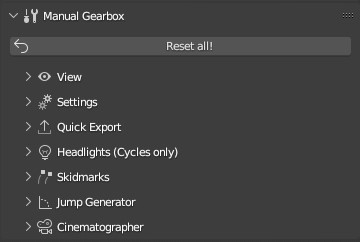
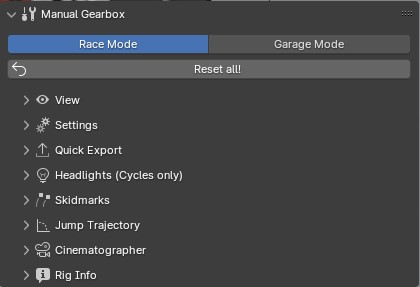
Added 1.5.7 features

Changed region(s): [[0.0, 0.0, 1.0, 1.0], [0.0611, 0.5785, 0.5194, 0.9835], [0.0611, 0.4917, 0.3361, 0.5496]]

diff --git a/docs/source/manual-gearbox.rst b/docs/source/manual-gearbox.rst
@@ -11,6 +11,28 @@ Inside the Manual Gearbox you have a wide range of customization options to make
     
     *The Manual Gearbox in the N-Panel* 
 
+
+.. _rig-setup-mode:
+Garage Mode
+-----
+
+.. image:: gif/DOC_GARAGE_MODE.gif
+    :alt: Garage Mode Gif
+    :class: with-shadow
+    :width: 600px
+    :align: center
+|
+
+Changing the mode to Garage Mode will get your vehicle ready for new tires, change track width or other model changes.
+In the "Garage" all animations will be disabled temporarily and the vehicle is moved to the center of the scene. Blender also enters "Local View", so all other objects will be temporarily hidden until you go to "Race Mode" again.
+
+Body, Wheel, Brake, Headlight and Steering Wheel attachment bones and setup controls for wheel-base length, track-width length, wheel radii, and roll center can be found in this mode. Enter "Pose Mode" and select and move the handles to start adjusting.
+You can manually parent meshes, nulls and armatures to the body or wheels. 
+
+.. note::
+    The vehicle will temporarily be put into the center of the scene and all animations disabled. All animations will be restored when "Race Mode" is entered again.  
+
+|
 *Reset all!*
 Will reset all LC properties for the active vehicle to their default value.
 
@@ -117,27 +139,6 @@ The Settings Panel controls how the :ref:`ground-detection`, :ref:`animation-han
     :align: center
     
     *Settings Panel in the Manual Gearbox UI* 
-
-|
-.. _rig-setup-mode:
-Rig Setup Mode
-^^^^^^^^
-Enter a Setup Mode for the Active Vehicle where the sizes of the rig can be adjusted, new body parts added and the Roll Center adjusted.
-
-..  figure:: img/IMG_RigSetupMode.jpg
-    :alt: Rig Setup Mode
-    :class: with-shadow
-    :width: 350px
-    :align: center
-    
-    *Rig Setup Mode controls in the 3D View* 
-
-Body, Wheel, Brake, Headlight and Steering Wheel attachment bones and setup controls for wheel-base length, track-width length, wheel radii, and roll center can be found in this mode. Enter "Pose Mode" and select and move the handles to start adjusting.
-You can manually parent meshes, nulls and armatures to the body or wheels. 
-
-.. note::
-    The vehicle will temporarily be put into the center of the scene and all animations disabled. All animations will be restored when "rig setup mode" is turned back off.
-
 
 |
 Update Driving Path
@@ -410,3 +411,5 @@ In the process, LC will store the animtion data, driving path, ground detection,
 Depending on the versions some data might not be possible to apply, so expect loss of data if you are updating an old file.
 
 If you have a file with a "Legacy Rig" (Rigged in LC 1.0-1.3), you can try to "Update Vehicle Rig" too, but the successrate will be lower.
+
+If a new version of the Launch Control Add-on is available, a box will pop up here notifying you about this. You can either pick to "Ignore" and not get this notification anymore, or head "To Download Page" to update your version of the add-on. Make sure you are logged into the selected download page and that you picked the right page inside the Add-on Preferences for Launch Control.

diff --git a/docs/source/user-preferences.rst b/docs/source/user-preferences.rst
@@ -59,3 +59,24 @@ Multi-Rigging (Experimental)
 
 .. note::
     Remember to "Save Preferences" before exiting. 
+
+
+
+Updates
+-------------
+
+Inside the Updates section, you can stay updated with the latest version of Launch Control. 
+
+.. _update_platform:
+Platform
+  Pick the platform you have bought Launch Control from. Make sure you are logged into the platform before going to the clicking any of the "To Download Page" buttons.
+
+.. _update_check_interval:
+Uppdate Check Interval
+  Enable auto check for updates and set the desired interval here. A notification will appear in the "Rig Info" section of the Launch Control UI and a pop up whenever a new version is found after a check.
+
+.. _update_button:
+Check for Updates/Go to Product Page
+  Run a check for any updates to Launch Control.
+
+
